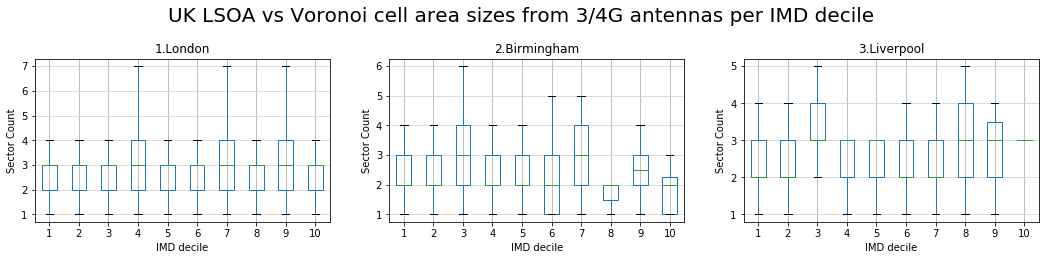
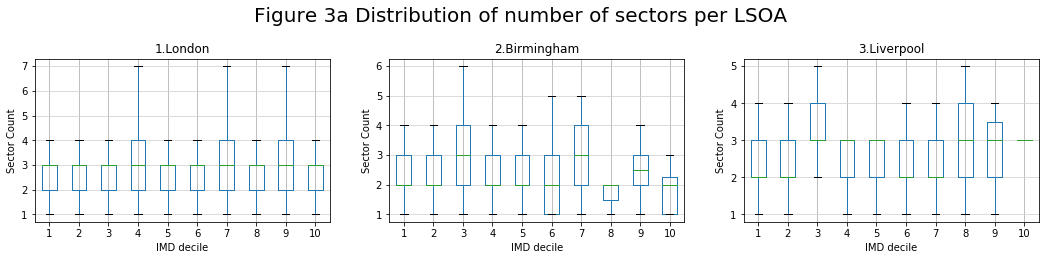
new

Changed region(s): [[0.153, 0.0308, 0.8566, 0.0923]]

diff --git a/IMC2020/Diagrams/IMC2020_diagrams.md b/IMC2020/Diagrams/IMC2020_diagrams.md
@@ -238,10 +238,14 @@ liverpool_4G_AntVor_x_LSOA_count = sjoin(liverpool_lsoa_2019_gpd,telefonica_ante
 liverpool_4G_AntVor_x_LSOA_count = liverpool_4G_AntVor_x_LSOA_count.groupby(['index','IMDDecil'], as_index=False).count().drop(columns=['index','geometry']).rename(columns={'index_right': '4G_antenna_count'})
 ```
 
+    C:\ProgramData\Anaconda3\lib\site-packages\geopandas\tools\sjoin.py:56: UserWarning: CRS of frames being joined does not match!({'init': 'epsg:3857'} != {'init': 'epsg:4326'})
+      '(%s != %s)' % (left_df.crs, right_df.crs))
+    
+
 
 ```python
 fig, ax = plt.subplots(1, 3, figsize=(18, 3), facecolor='w', edgecolor='k')
-fig.suptitle('UK LSOA vs Voronoi cell area sizes from 3/4G antennas per IMD decile', size=20, y=1.12)
+fig.suptitle('Figure 3a Distribution of number of sectors per LSOA', size=20, y=1.12)
 
 def applyPlotStyle(ax):
     ax.yaxis.grid(True, linestyle='-', which='both', color='lightgrey')
@@ -306,7 +310,7 @@ london_4G_res_count = homeantenna_london_pd[homeantenna_london_pd['generation']=
 
 ```python
 fig, ax = plt.subplots(1, 3, figsize=(18, 3), facecolor='w', edgecolor='k')
-fig.suptitle('UK LSOA vs Voronoi cell area sizes from 3/4G antennas per IMD decile', size=20, y=1.12)
+fig.suptitle('Fig 3b Distribution of number of residents’ devices served by sectors', size=20, y=1.12)
 
 def applyPlotStyle(ax):
     ax.yaxis.grid(True, linestyle='-', which='both', color='lightgrey')
